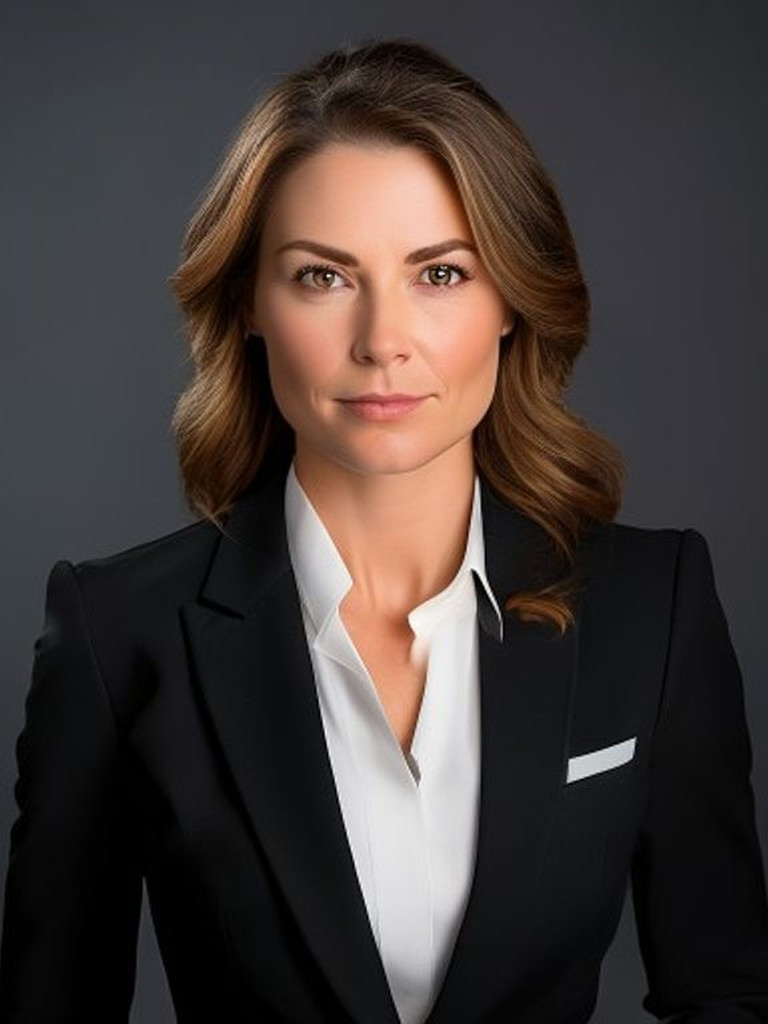
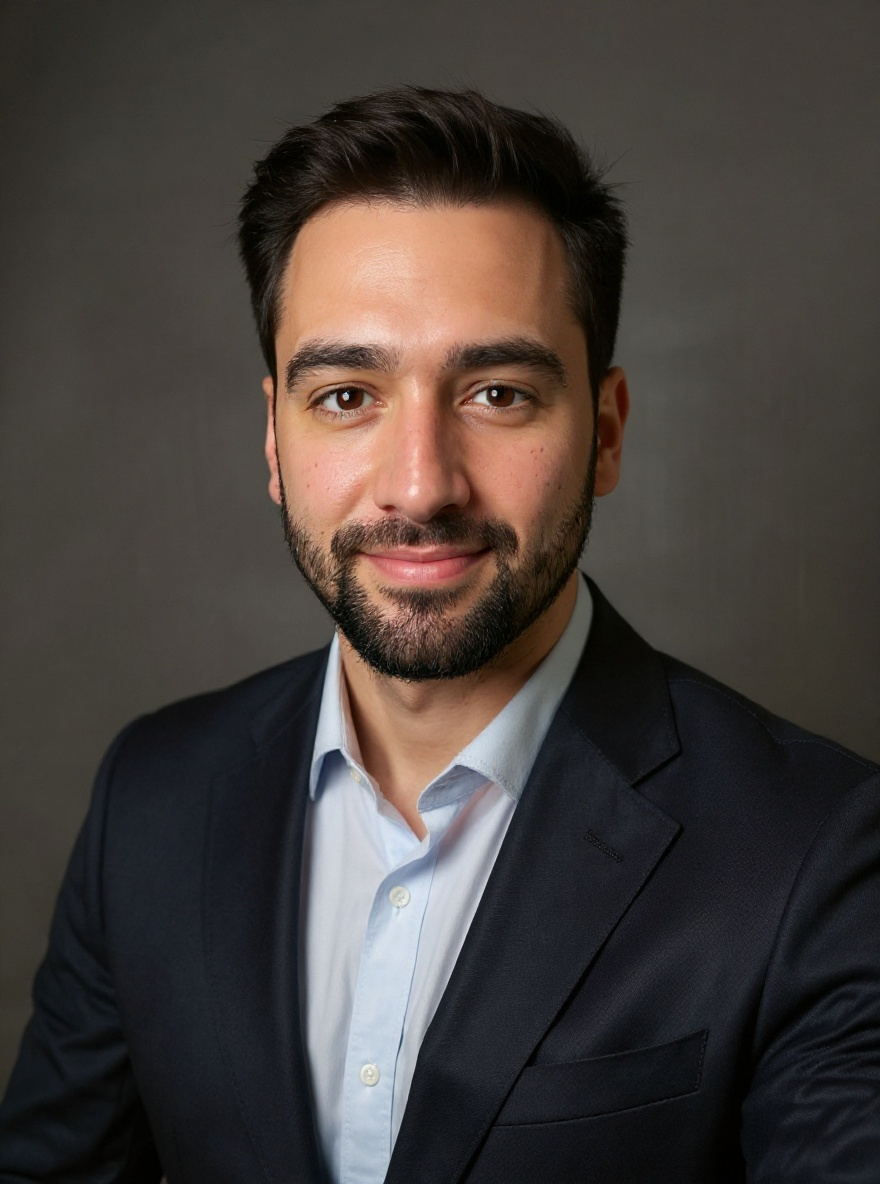
Hero: вернуть мужской пример (селфи→студия) в плитки наверху
Слайдер ниже (before_2/after_2) остаётся с выровненной женщиной; наверху —
исходная мужская пара из 8a3f080, лица совпадают. Кэш-версия v2→v3.

Claude-Session: https://claude.ai/code/session_01GJFQ7pr98dhgZGUvuopbUA

diff --git a/headshot-bot/web/static/index.html b/headshot-bot/web/static/index.html
@@ -146,10 +146,10 @@ _tmr.push({id: "3782039", type: "pageView", start: (new Date()).getTime()});
     </div>
     <div style="position:relative; padding:10px 0">
       <div style="display:grid; grid-template-columns:1fr 1fr; gap:14px; position:relative">
-        <div class="tile" style="background:url(/static/img/gen/before_1.jpg?v=2) center/cover; display:flex; align-items:flex-end; padding:14px; box-shadow:0 10px 30px rgba(27,29,34,.08); transform:rotate(-2deg)">
+        <div class="tile" style="background:url(/static/img/gen/before_1.jpg?v=3) center/cover; display:flex; align-items:flex-end; padding:14px; box-shadow:0 10px 30px rgba(27,29,34,.08); transform:rotate(-2deg)">
           <span class="chip">Ваше селфи</span>
         </div>
-        <div class="tile" style="background:url(/static/img/gen/after_1.jpg?v=2) center/cover; display:flex; align-items:flex-end; padding:14px; box-shadow:0 18px 44px rgba(27,29,34,.16); transform:rotate(2deg) translateY(14px)">
+        <div class="tile" style="background:url(/static/img/gen/after_1.jpg?v=3) center/cover; display:flex; align-items:flex-end; padding:14px; box-shadow:0 18px 44px rgba(27,29,34,.16); transform:rotate(2deg) translateY(14px)">
           <span class="chip" style="position:relative">Деловой портрет</span>
         </div>
         <span style="position:absolute; left:50%; top:50%; transform:translate(-50%,-50%); background:var(--accent); color:#fff; width:46px; height:46px; border-radius:50%; display:flex; align-items:center; justify-content:center; font-size:20px; box-shadow:0 8px 20px rgba(154,107,31,.4)">→</span>
